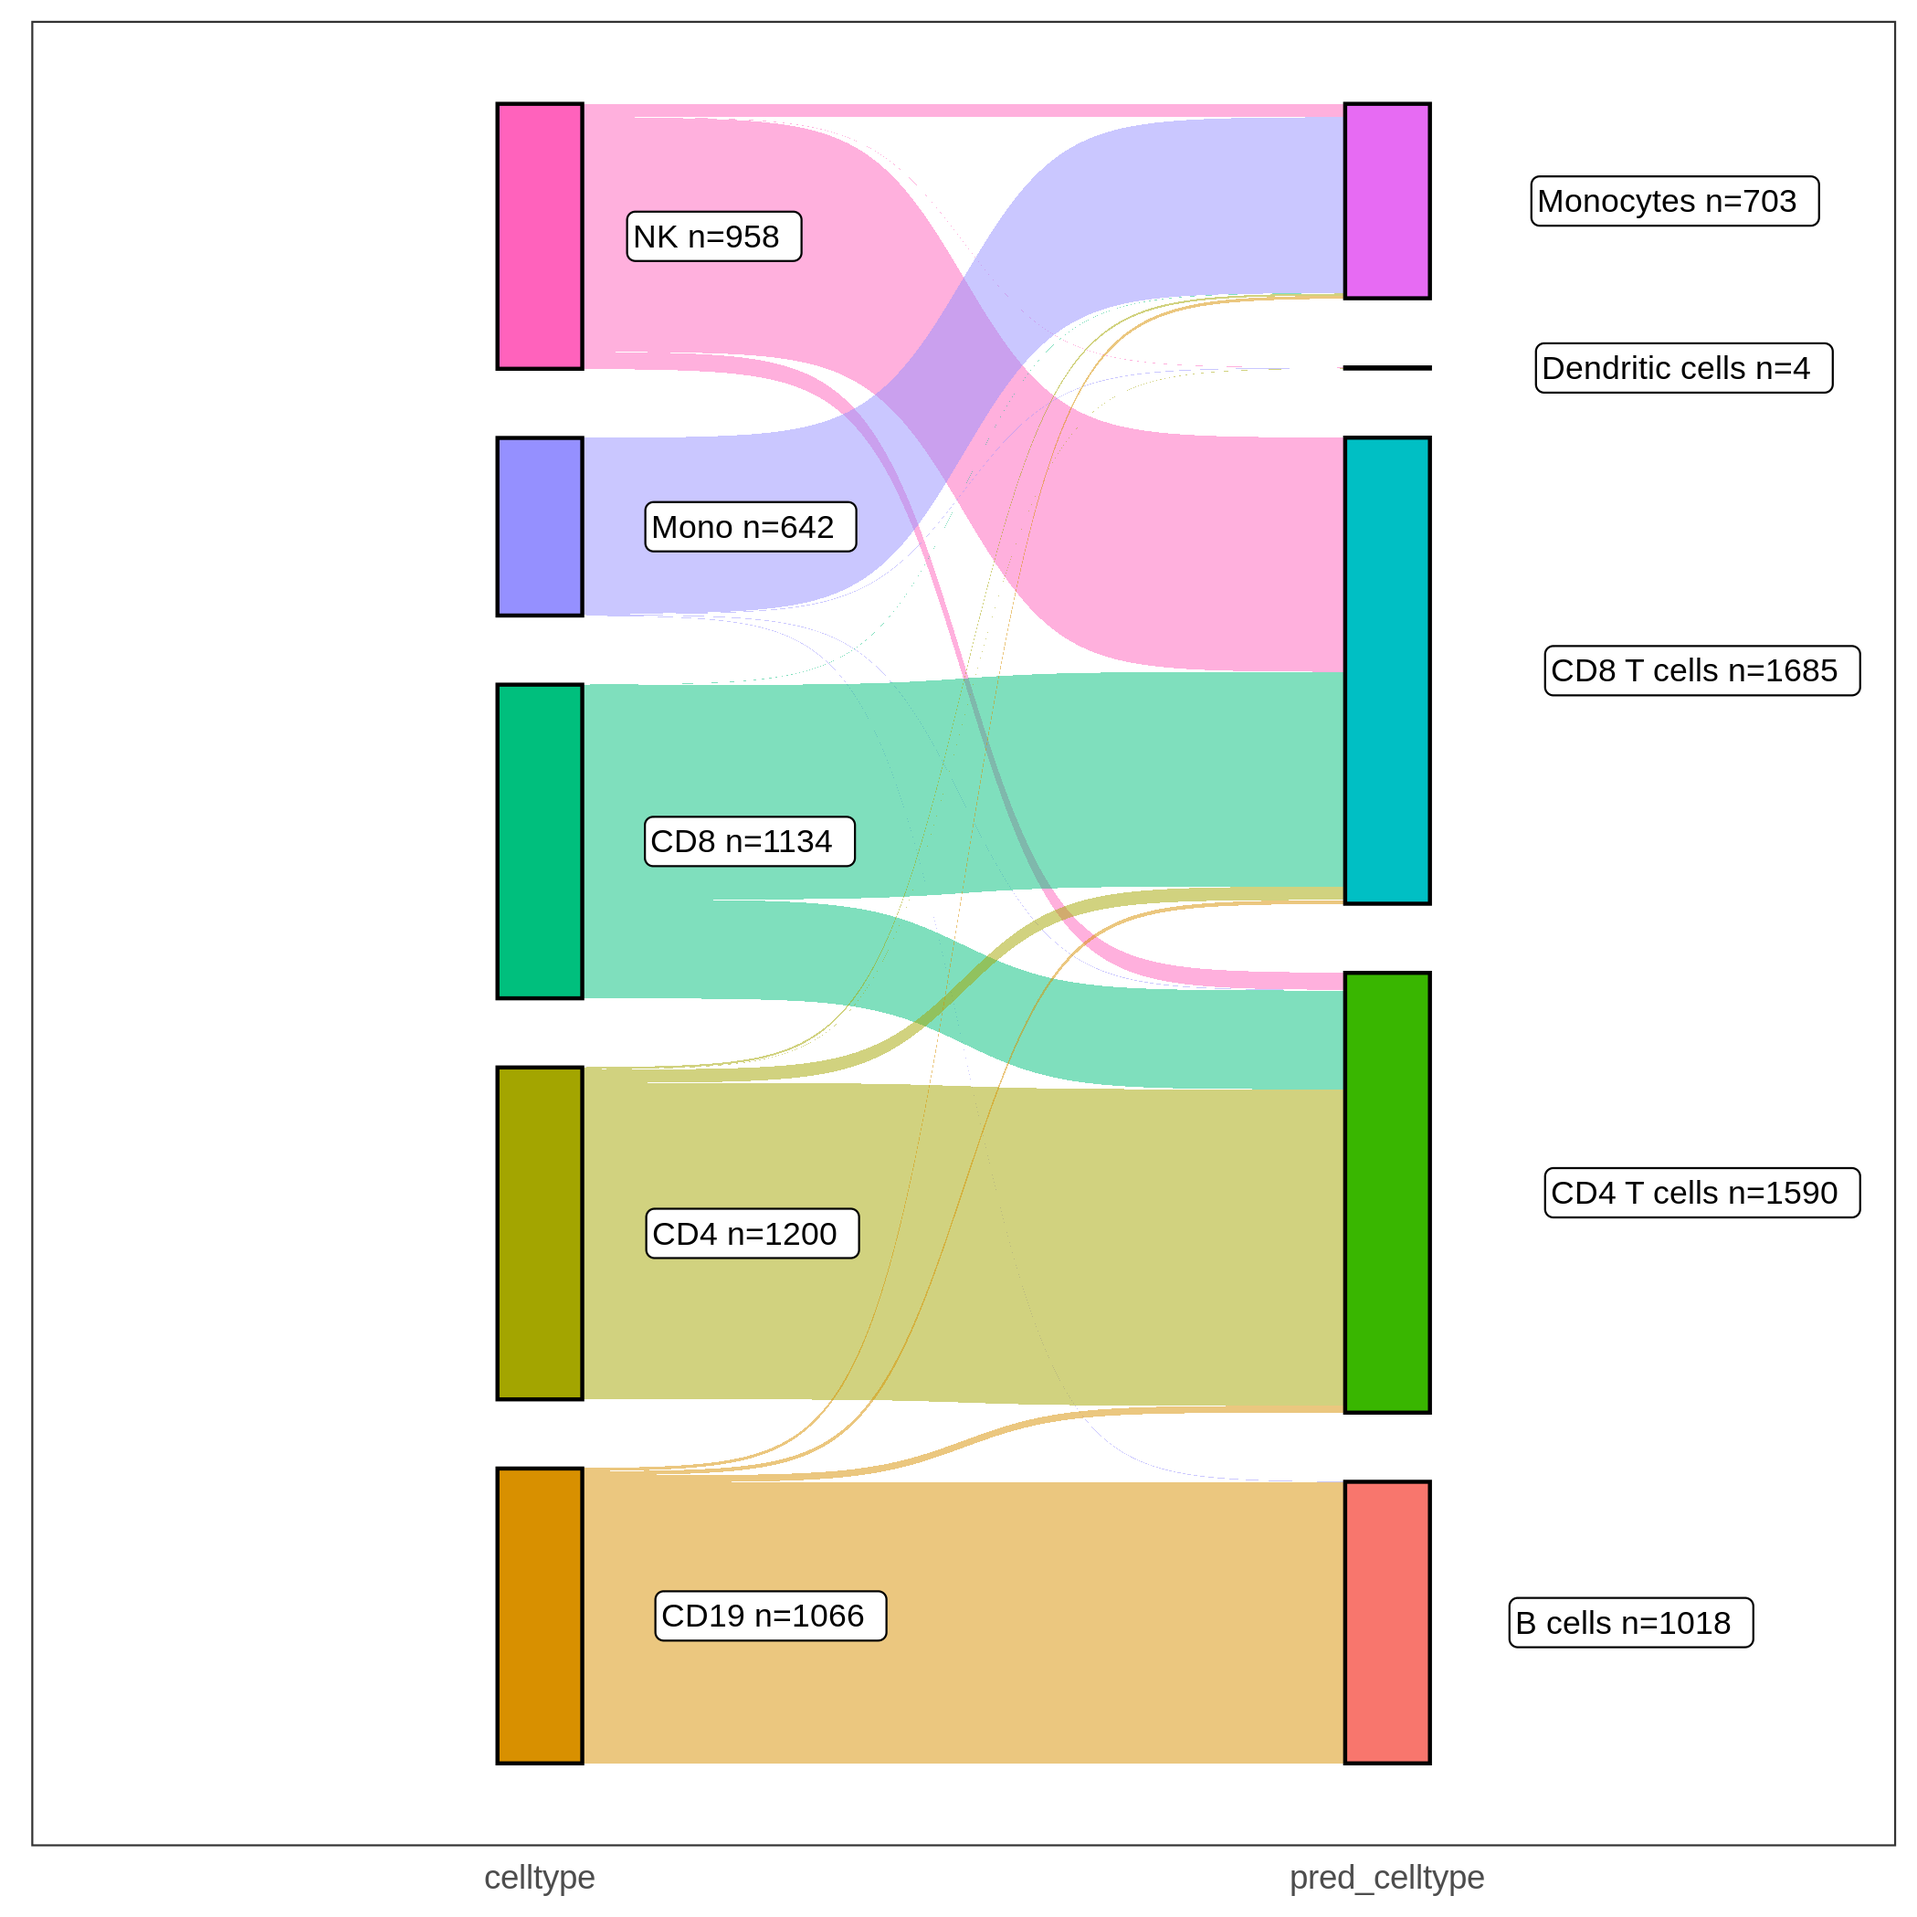
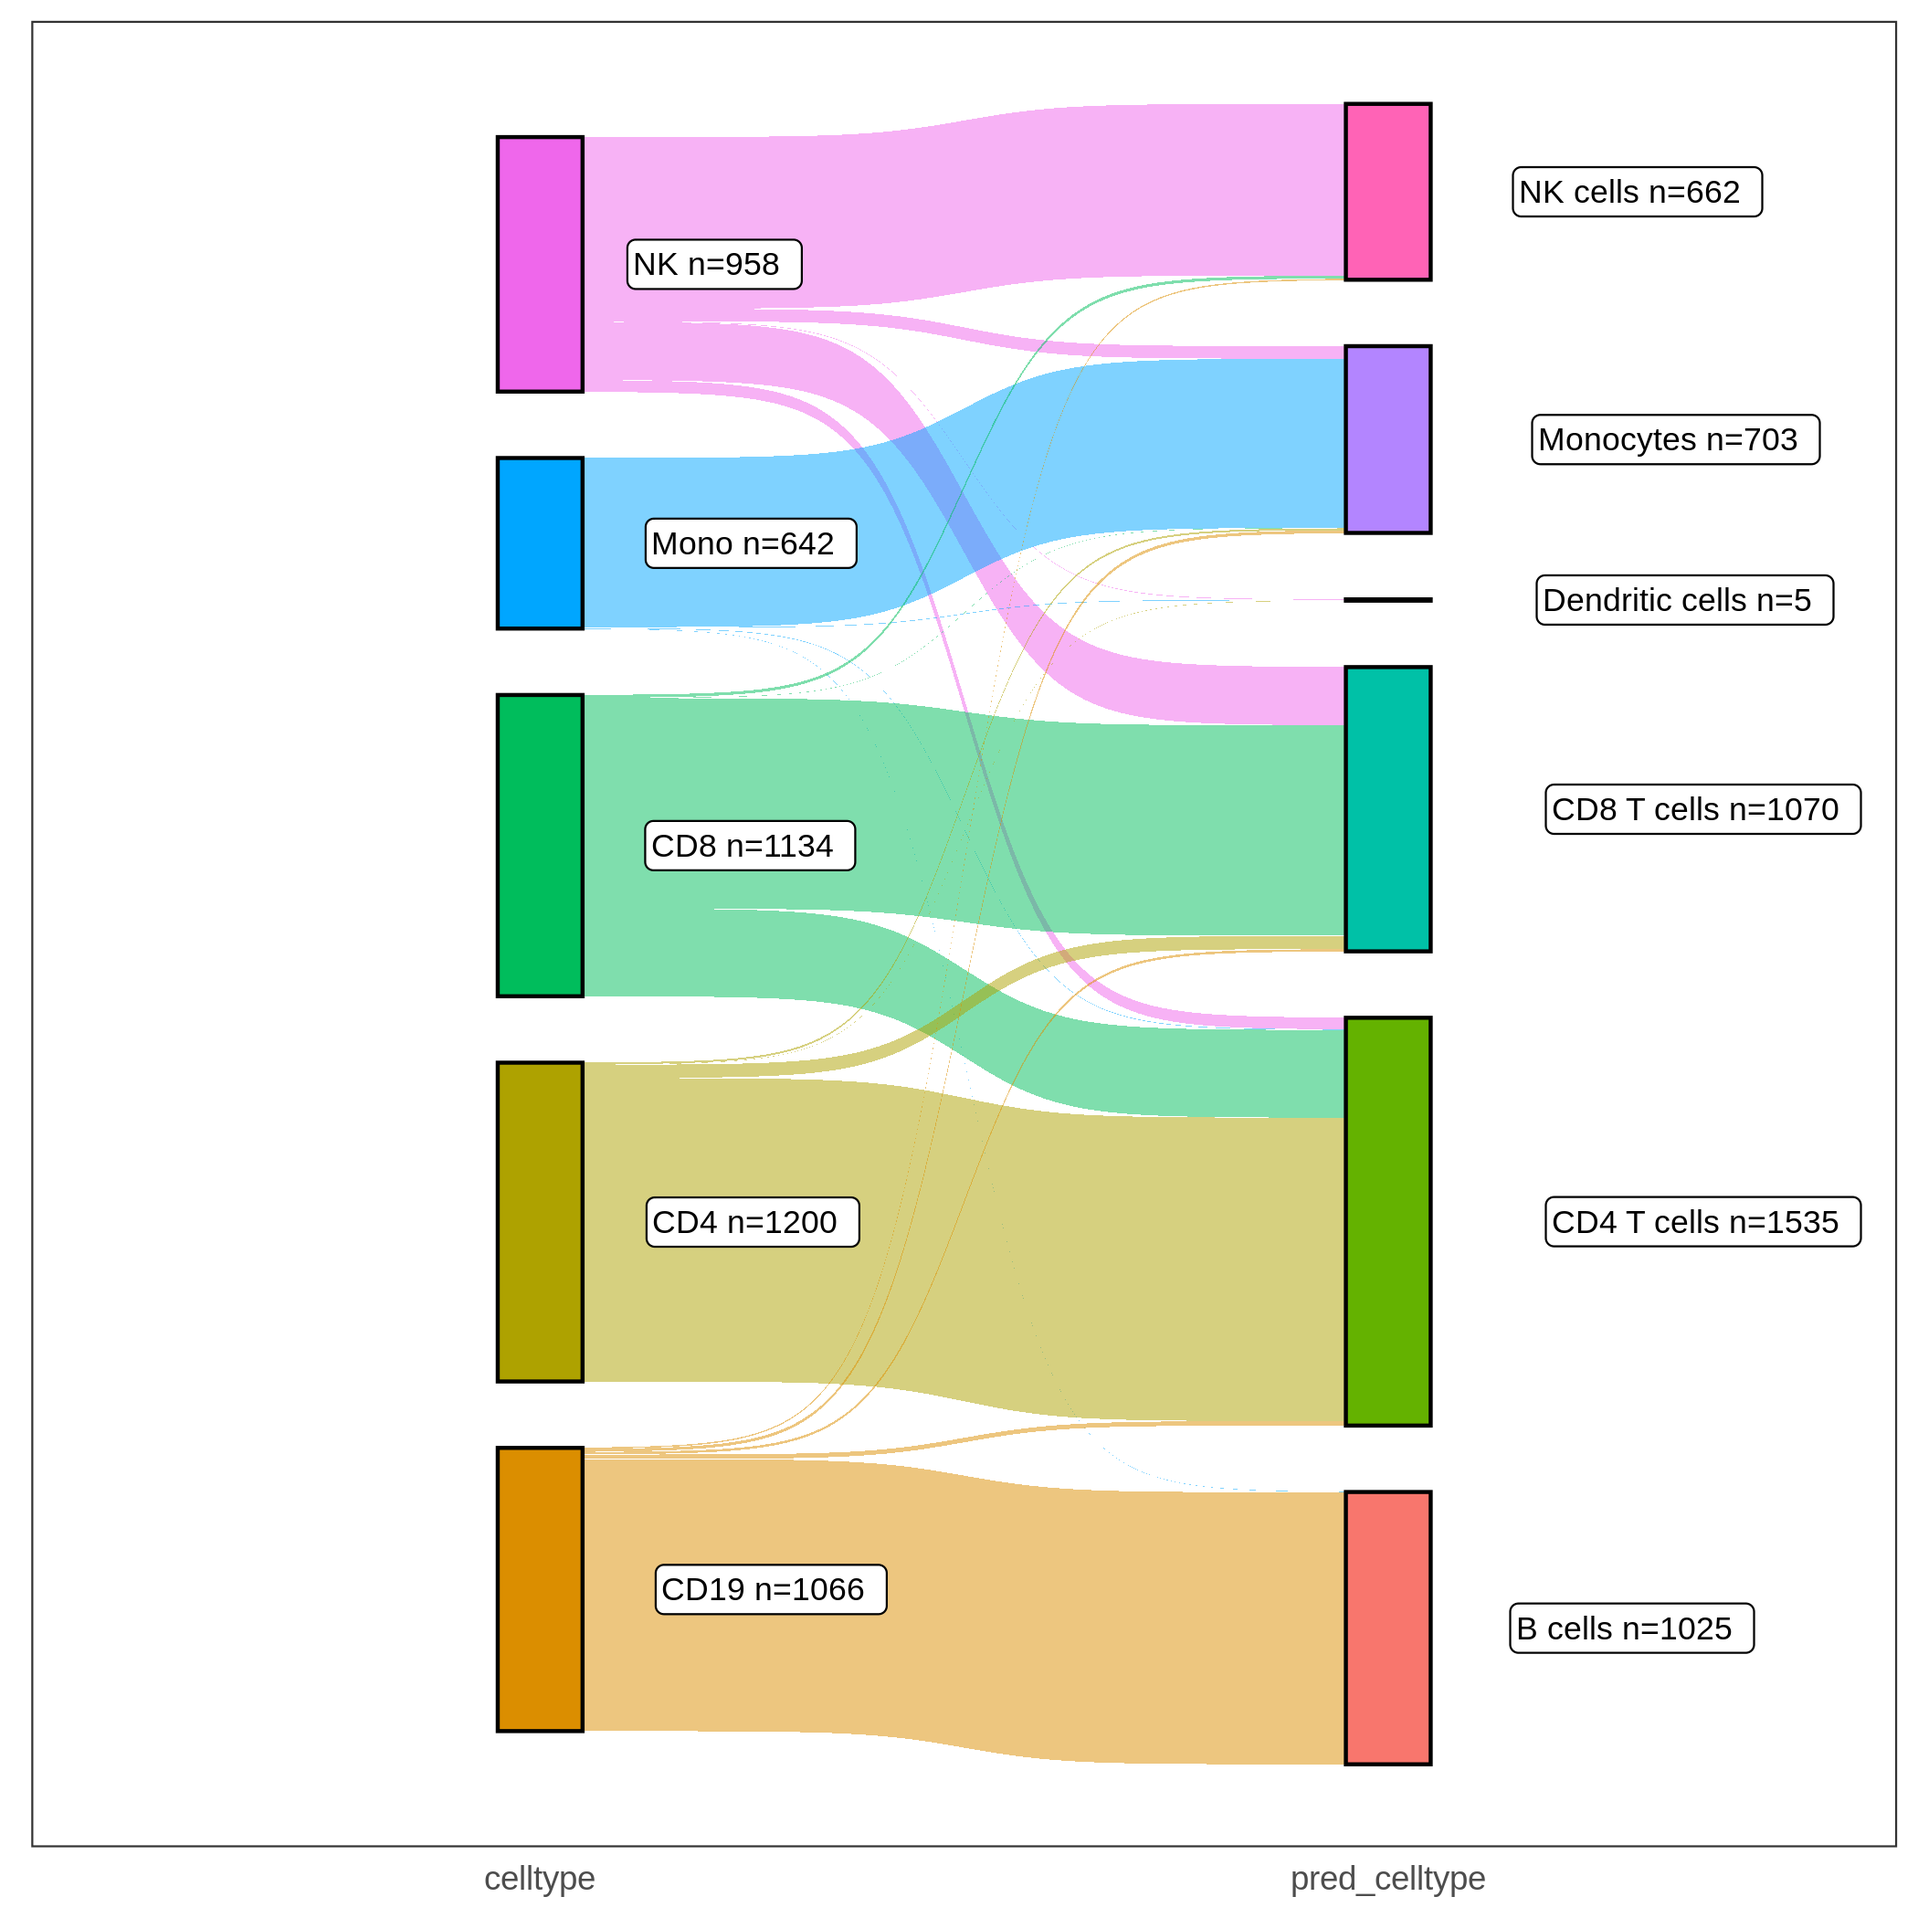
update documentation

diff --git a/docs/index.md b/docs/index.md
@@ -1,6 +1,7 @@
 ## Cellcano Tutorial
 
 **Authors:** Wenjing Ma (wenjing.ma@emory.edu), Dr. Hao Wu (hao.wu@emory.edu), Emory University
+
 **Latest revision:** 05-15-2022
 
 In this tutorial, we will guide you through Cellcano, a supervised cell type annotation (celltyping) tool in scATAC-seq. We will use human Peripheral Blood Mononuclear Cells (PBMC) datasets as examples. 
@@ -14,7 +15,7 @@ We are aiming at accurate and efficient celltyping in single cell genomics, incl
 #### Reference dataset
 First, we take a healthy donor `PBMC_Rep1` from [GSE129785](https://www.ncbi.nlm.nih.gov/geo/query/acc.cgi?acc=GSE129785) to be our reference dataset. This study measures the single-cell chromatin landscape of human immune cell development.
 
-We start by downloading the raw data along with the processed metadata. The raw data is provided on GEO under accession number GSE129785. The metadata needs some preprocessing procedures. The original metadata can be first downloaded from GEO at [GSE129785 GSE129785_scATAC-Hematopoiesis-All.cell_barcodes.txt.gz](https://ftp.ncbi.nlm.nih.gov/geo/series/GSE129nnn/GSE129785/suppl/GSE129785_scATAC-Hematopoiesis-All.cell_barcodes.txt.gz). We extract out individuals related to PBMC using the `Group` column and extract out those cells lying in `PBMC_Rep1` category. Then, we annotate the cluster information according to the [WashU EpiGenome Browser](http://epigenomegateway.wustl.edu/legacy/?genome=hg19&session=HcbHMSgBCc&statusId=28207718) under the `SatPathy, Granja et al 2019 v1` track. For your convenience, we provide the processed metadata with cell types on [Dropbox](https://www.dropbox.com/s/fv2ikhntp80r0ks/GSM3722015_PBMC_Rep1_metadata.csv).
+We start by downloading the raw data along with the processed metadata. The raw data is provided on GEO under accession number GSE129785. The metadata needs some preprocessing procedures. The original metadata can be first downloaded from GEO at [GSE129785 GSE129785_scATAC-Hematopoiesis-All.cell_barcodes.txt.gz](https://ftp.ncbi.nlm.nih.gov/geo/series/GSE129nnn/GSE129785/suppl/GSE129785_scATAC-Hematopoiesis-All.cell_barcodes.txt.gz). We extract out individuals related to PBMC using the `Group` column and extract out those cells lying in `PBMC_Rep1` category. Then, we annotate the cluster information according to the [WashU EpiGenome Browser](http://epigenomegateway.wustl.edu/legacy/?genome=hg19&session=HcbHMSgBCc&statusId=28207718) under the `SatPathy, Granja et al 2019 v1` track. For your convenience, we provide the processed metadata with curated major human PBMC cell types on [Dropbox](https://www.dropbox.com/s/d7e7wcb4nuy5l2q/GSM3722015_PBMC_Rep1_curated_metadata.csv). 
 
 ```shell
 # create and enter directory
@@ -23,7 +24,7 @@ cd train_data
 # Download sample fragment file
 wget https://ftp.ncbi.nlm.nih.gov/geo/samples/GSM3722nnn/GSM3722015/suppl/GSM3722015_PBMC_Rep1_fragments.tsv.gz
 # Download processed cell metadata
-wget https://www.dropbox.com/s/fv2ikhntp80r0ks/GSM3722015_PBMC_Rep1_metadata.csv
+wget https://www.dropbox.com/s/d7e7wcb4nuy5l2q/GSM3722015_PBMC_Rep1_curated_metadata.csv
 ```
 
 Next, we use Cellcano to call ArchR to process the fragment file into gene score matrix. The `-i` option scans files ending with `fragments.tsv.gz` or `.bam` and load the files to ArchR.`-g` describes which genome will be used. `--threads` indicates how many threads will be used to run ArchR. ArchR would take around 30 mins to process the data with threads as 4. 
@@ -68,6 +69,7 @@ R[write to console]: Setting default genome to Hg19.
 R[write to console]: 2022-05-15 10:36:13 : (GSM3722015_PBMC_Rep1 : 1 of 1) Finished Creating Arrow File, 31.809 mins elapsed.
 
 ...
+
 R[write to console]: 2022-05-15 10:37:39 : Organizing colData, 1.336 mins elapsed.
 
 R[write to console]: 2022-05-15 10:37:39 : Organizing rowData, 1.336 mins elapsed.
@@ -104,11 +106,11 @@ wget https://www.dropbox.com/s/e7g9vem3oxt096l/FACS5K_genescore.csv
 
 ### 2. Pre-train Cellcano's first round
 
-With the preprocessed reference gene score matrix, we can use it as input for training a first-round prediction. 
+With the preprocessed reference gene score matrix, we can use it as input for training a first-round prediction. When the input data ends with `.mtx`, the `-i` option takes the common file prefix indicating the matrix, barcodes and genes.
 
 ```shell
 ## run the training process
-python demo.py train -i train_data/ArchR_genescore -m train_data/GSM3722015_PBMC_Rep1_metadata.csv -o output --prefix PBMC_Rep1_trained 
+python demo.py train -i train_data/ArchR_genescore -m train_data/GSM3722015_PBMC_Rep1_curated_metadata.csv -o output --prefix PBMC_Rep1_trained 
 
 ## The output will be
 Skipping registering GPU devices...
@@ -129,4 +131,71 @@ Epoch 52/100
 601/601 - 1s - loss: 0.3442 - accuracy: 0.8839
 2022-05-15 17:26:51.405652: W tensorflow/python/util/util.cc:348] Sets are not currently considered sequences, but this may change in the future, so consider avoiding using them.
 ```
+
+The trained model will be under the `output` directory with a folder named `PBMC_Rep1_trained`. Along with the trained model, the tSNE visualization and an [anndata](https://anndata.readthedocs.io/en/latest/) object storing the reference data are stored.
+
+### 3. Predict on target dataset in second round
+
+We use the trained model to predict on the target dataset. When the input data ends with `.csv`, we use the full path as input. 
+
+```shell
+## run the prediction process
+python demo.py predict -i test_data/FACS5K_genescore.csv --trained_model output/PBMC_Rep1_trainedMLP_model -o output --prefix predict_FACS --tworound
+
+## The output will be
+Skipping registering GPU devices...
+_utils.<module>: INFO: Num GPUs Available: 0
+predict.predict: INFO: Loading data...
+ This may take a while depending on your data size..
+ 
+...
+
+Epoch 28/30
+63/63 - 0s - accuracy: 0.8685 - student_loss: 0.1856 - distillation_loss: 0.1795
+Epoch 29/30
+63/63 - 0s - accuracy: 0.8779 - student_loss: 0.6145 - distillation_loss: 0.2452
+Epoch 30/30
+63/63 - 0s - accuracy: 0.8685 - student_loss: 0.4724 - distillation_loss: 0.2203
+=== Predicted celltypes:  {'CD8 T cells', 'CD4 T cells', 'B cells', 'NK cells', 'Monocytes'}
+```
+
+The result will be stored in a csv file under the output directory indicated by `-o` option with  specified prefix. In our case, it will be `predict_FACScelltypes.csv`. If using without `--tworound` option, the result will be directly predicted from the trained model.
+
+### 4. Result analysis
+
+We use Sankey plot to analyze the cell type assignment. Here, we use R to run the following analysis code.
+
+```R
+# We need ggsankey package to draw the Sankey plot
+# install.packages("devtools")
+# devtools::install_github("davidsjoberg/ggsankey")
+
+library(ggsankey)
+
+library(ggplot2)
+library(dplyr)
+## load predicted results
+pred_df = read.csv("output/predict_FACScelltypes.csv", header=T, row.names=1)
+## add cell type labels from FACS barcodes
+pred_df$celltype = sapply(strsplit(pred_df$barcode, '_'), '[', 3) 
+sankey_df = pred_df %>% make_long(celltype, pred_celltype)
+## count how many cells in the link
+count_df = sankey_df %>% dplyr::group_by(node)%>% tally()  
+df = merge(sankey_df, count_df, by.x = 'node', by.y = 'node', all.x = TRUE)
+g = ggplot(df, aes(x=x, next_x=next_x, node=node, next_node=next_node,
+                          fill=factor(node), label=paste0(node," n=", n)))
+g = g + geom_sankey(flow.alpha=0.5, node.color="black", show.legend=T)
+g = g + geom_sankey_label(size=3, color="black", fill="white", hjust=-0.5)
+g = g + theme_bw()
+g = g + theme(legend.position="none")
+g = g + theme(axis.title=element_blank(), axis.text.y = element_blank(),
+              axis.ticks = element_blank(), panel.grid = element_blank())
+g
+```
+
+![img](predict_FACS_sankey.png)
+
+In the Sankey plot, the left nodes are the labels from FACS and the right nodes are predicted cell types. Most of the cells are correctly predicted while some cells in CD8 T cells are wrongly assigned as CD4 T cells and some cells in NK cells are wrongly assigned to CD8 T cells. The reason can be indicated from the tSNE visualization on FACS dataset below. The tSNE plots show the high-dimensional data in 2-dimension and labeld with FACS cell types. There are cell mixtures between NK cells and CD8 T cells as well as CD4 T cells and CD8 T cells. The mixture makes the prediction much harder. 
+
+![img](FACS_tSNE.png)
 
